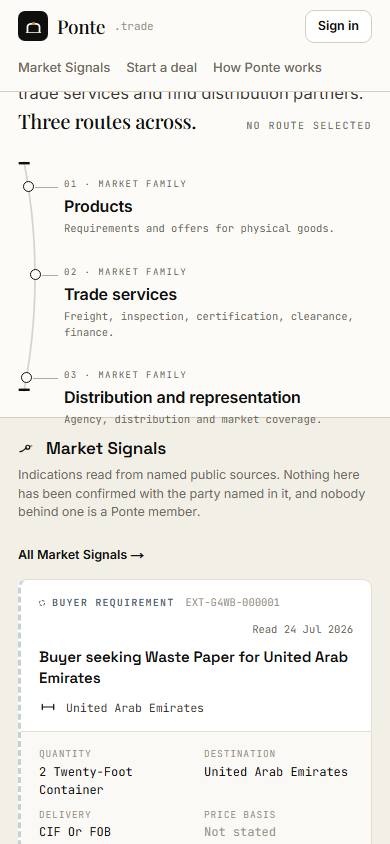
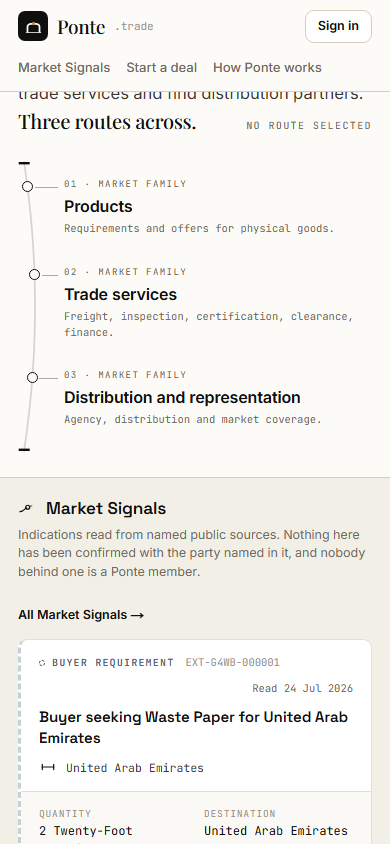
Stop the mobile bridge overlapping the section below it
At 390 the last station's description ran into the Market Signals section:
a real overlap, not tight spacing. The gap measured minus ten pixels.

The horizontal and vertical branches were both a div in the same position,
so React kept the element across a mode change and only swapped its class.
The horizontal stage's fit() sets an inline height on that element, and the
stale height stayed on .br__rows and clipped it: the box was 229px around
273px of stations, which simply overflowed onto whatever followed.

Distinct keys on the two branches so neither mode can inherit the other's
node, and the elevation drawing clears any height it finds before measuring.
Both, because the key prevents the class of bug and the clear prevents this
symptom returning by another route.

The per-width checks now also assert that the rows box carries no inline
height, that it contains its own stations, and that the last station does not
reach the section below. Confirmed to fail when the fix is reverted.

The evidence suite also waits for the elevation curve and the bridge's
document offset to stop moving before capturing, not just its height: the
curve is redrawn once fonts resolve, which moved the mobile frame without
changing the block's height. All 16 frames are byte-identical across three
consecutive runs again.

Changed region(s): [[0.0308, 0.3697, 0.9538, 1.0], [0.5231, 0.955, 0.8923, 1.0], [0.0615, 0.2156, 0.0923, 0.3389]]

diff --git a/e2e/landing-bridges.spec.ts b/e2e/landing-bridges.spec.ts
@@ -93,12 +93,28 @@ async function shot(target: Locator | Page, name: string): Promise<void> {
  */
 async function settled(page: Page): Promise<void> {
   await page.evaluate(() => document.fonts?.ready);
-  let previous = -1;
-  for (let i = 0; i < 20; i++) {
-    const box = await block(page).boundingBox();
-    const height = Math.round(box?.height ?? -1);
-    if (height > 0 && height === previous) return;
-    previous = height;
+  let previous = "";
+  for (let i = 0; i < 25; i++) {
+    // Height alone is not enough. In elevation the curve is redrawn on the next
+    // frame and again once fonts resolve, which moves the nodes and the live
+    // segment without changing the block's height at all. The signature covers
+    // both, so a frame is only taken once the drawing has stopped moving too.
+    const signature = await page.evaluate(() => {
+      const el = document.querySelector(".pbridge");
+      const track = document.querySelector(".pbridge .br__vsvg .d-track");
+      const live = document.querySelector(".pbridge .br__vsvg .d-live");
+      return [
+        Math.round(el?.getBoundingClientRect().height ?? -1),
+        // The document offset too: `reveal` scrolls to the bridge, so anything
+        // above it reflowing by a pixel after fonts load moves the frame.
+        Math.round((el?.getBoundingClientRect().top ?? 0) + window.scrollY),
+        track?.getAttribute("d")?.length ?? 0,
+        live?.getAttribute("d")?.length ?? 0,
+        document.querySelectorAll(".pbridge .brst").length,
+      ].join("|");
+    });
+    if (!signature.startsWith("-1") && signature === previous) return;
+    previous = signature;
     await page.waitForTimeout(60);
   }
 }
@@ -672,6 +688,38 @@ for (const width of [320, 360, 390, 430]) {
 
     expect(overflow.page, `page scrolls horizontally: ${overflow.scrollWidth} > ${overflow.client}`).toBe(false);
     expect(overflow.offenders, "a bridge element extends past the viewport").toEqual([]);
+
+    /*
+      And vertically, which is the failure that actually shipped: the elevation
+      rows box kept an inline height left behind by the horizontal stage's `fit`,
+      because React reused the same div for both modes. The box stopped 44px
+      short of its own content and the last station's description ran over the
+      Market Signals section beneath it.
+
+      Two independent checks, because either alone would have missed it: the
+      rows box must contain its own stations, and the bridge must not reach the
+      section below it.
+    */
+    const vertical = await page.evaluate(() => {
+      const rows = document.querySelector(".pbridge > .br .br__rows") as HTMLElement | null;
+      const stations = Array.from(document.querySelectorAll(".pbridge > .br .brst"));
+      const last = stations[stations.length - 1];
+      const below = document.querySelectorAll("section.sec")[0];
+      if (!rows || !last || !below) return null;
+      return {
+        rowsInlineHeight: rows.style.height || null,
+        overflowsOwnBox: rows.scrollHeight > rows.offsetHeight,
+        gapToSectionBelow: Math.round(below.getBoundingClientRect().top - last.getBoundingClientRect().bottom),
+      };
+    });
+
+    expect(vertical, "the elevation rows were not found").not.toBeNull();
+    expect(vertical!.rowsInlineHeight, "the rows box has an inline height, which will clip its stations").toBeNull();
+    expect(vertical!.overflowsOwnBox, "the rows box is shorter than the stations inside it").toBe(false);
+    expect(
+      vertical!.gapToSectionBelow,
+      "the last station overlaps the section below the bridge",
+    ).toBeGreaterThan(0);
   });
 }
 

diff --git a/components/ponte/bridge/BridgeRoute.tsx b/components/ponte/bridge/BridgeRoute.tsx
@@ -298,6 +298,11 @@ export default function BridgeRoute({
     if (!isVertical || !rows) return;
 
     const draw = () => {
+      // Belt and braces alongside the keys above: the rows box must always size
+      // itself from its stations. If anything ever puts a height on it, the last
+      // station overflows onto whatever follows the bridge, which is a failure
+      // the engine's own `fit` comment warns about in the other direction.
+      rows.style.removeProperty("height");
       const H = rows.offsetHeight;
       if (!H) return;
       let svg = rows.querySelector<SVGSVGElement>(".br__vsvg");
@@ -503,12 +508,23 @@ export default function BridgeRoute({
 
   return (
     <div className={rootClasses} role={mode === "select" ? "radiogroup" : "group"} aria-label={ariaLabel} ref={rootRef}>
+      {/*
+        The two modes carry distinct keys so React never reuses one's DOM node
+        as the other's.
+
+        Without them both branches are a `<div>` in the same position, so React
+        keeps the element and swaps its className. The horizontal `fit()` sets an
+        inline height on the stage, and after a switch to elevation that height
+        survived onto `.br__rows` and clipped it: the rows box stopped 44px short
+        of its own content, and the last station's description ran over the
+        section below. Which is exactly what it looked like at 390.
+      */}
       {isVertical ? (
-        <div className="br__rows br__rows--arc" ref={rowsRef}>
+        <div key="rows" className="br__rows br__rows--arc" ref={rowsRef}>
           {stations.map(renderStation)}
         </div>
       ) : (
-        <div className="br__stage" style={{ position: "relative" }} ref={stageRef}>
+        <div key="stage" className="br__stage" style={{ position: "relative" }} ref={stageRef}>
           <svg
             className="br__deck"
             style={{ position: "absolute", left: 0, top: 0 }}

diff --git a/docs/codex/audits/constitution-rebuild/evidence/landing-bridges/README.md b/docs/codex/audits/constitution-rebuild/evidence/landing-bridges/README.md
@@ -110,6 +110,36 @@ that from `requiresHsClassification(family)`, which is true for products alone.
 - **The geometry itself** is pinned to the engine's own numbers: the deck path
   string, the station fractions, the block-width formula and the elevation bow.
 
+## 4a. The mobile overlap, fixed
+
+Spotted by the owner in review: at 390 the last station's description, "Agency,
+distribution and market coverage.", ran **into** the Market Signals section
+below it.
+
+It was a real overlap, not tight spacing. Measured at 390 before the fix:
+
+| | Before | After |
+|---|---|---|
+| Gap from the last description to the section below | **−10px** | 50px |
+| Rows box height vs its own content | 229 against 273 | 289 against 289 |
+
+**Cause.** The horizontal and vertical branches were both a `<div>` in the same
+position, so React kept the element and only swapped its class. The horizontal
+stage's `fit()` sets an inline height on that element, and after a switch to
+elevation the stale `height: 229px` stayed on `.br__rows` and clipped it. The
+stations kept their natural size and simply overflowed the box, onto whatever
+followed.
+
+**Fix.** Distinct `key`s on the two branches so React never reuses one mode's
+node as the other's, plus the elevation drawing clearing any height it finds
+before it measures. Both, because the key prevents the class of bug and the
+clear prevents this particular symptom returning by another route.
+
+**Regression test.** The per-width checks now also assert that the rows box
+carries no inline height, that it contains its own stations, and that the last
+station does not reach the section below. Verified to fail when the fix is
+reverted, at all four widths.
+
 ## 5. Remaining differences from the approved reference
 
 Recorded rather than left to be noticed.
